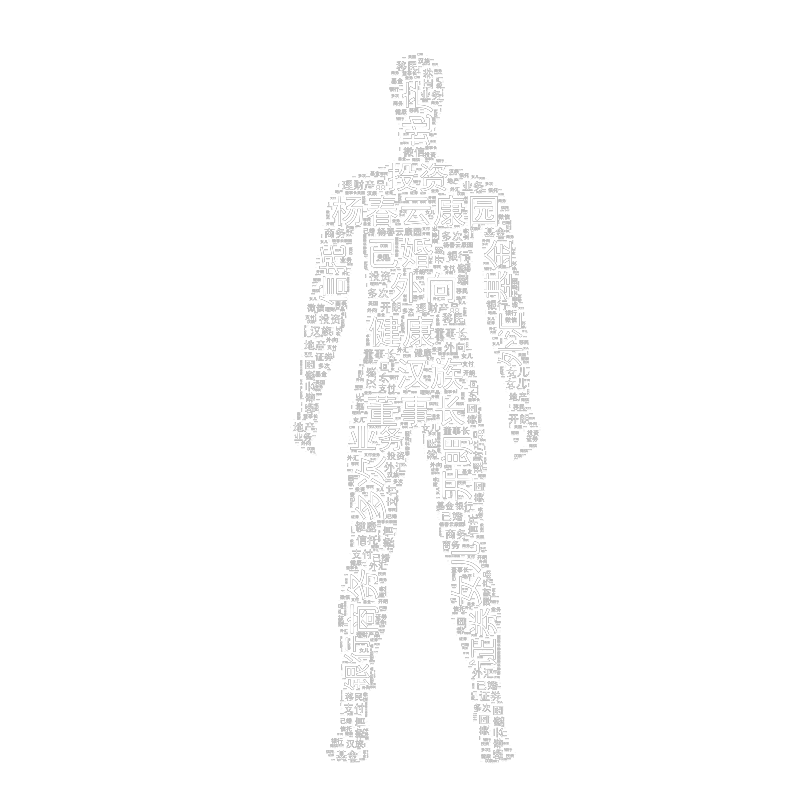
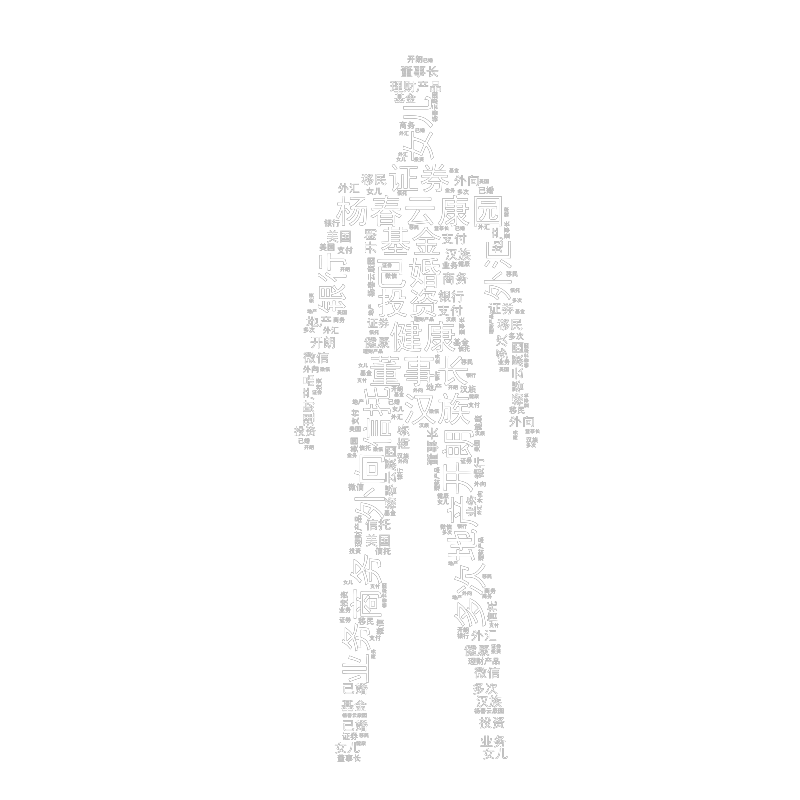
用户词云图

Changed region(s): [[0.3438, 0.0625, 0.6875, 0.9688]]

diff --git a/ceshi.py b/ceshi.py
@@ -6,18 +6,18 @@ import matplotlib.pyplot as plt
 import jieba
 #1 直接复制文本信息
 #2 打开txt文本
-with open (r'C:\Users\Administrator\Desktop\会员画像.txt', 'r') as fp:
+with open (r'C:\Users\Administrator\Desktop\alice.txt', 'r') as fp:
    text=fp.read()
 print(text)
 cut_text = jieba.cut(text,cut_all=False)
 result = " ".join(cut_text)
 #轮廓图片获取
-mask = np.array(Image.open(r'./static/erci.png'))
+mask = np.array(Image.open(r'./static/model.jpg'))
 # import ipdb;ipdb.set_trace()
 # #333943
-word_cloud=WordCloud(font_path='simhei.ttf', background_color=None, max_words=2000,repeat=True, mask=mask,min_font_size=1, mode='RGBA')
+word_cloud=WordCloud(font_path='simhei.ttf', background_color=None, max_words=200, repeat=True, mask=mask, min_font_size=1, mode='RGBA')
 word_cloud.generate(result)
-backgroud_Image = plt.imread(r'./static/未标题-1.jpg')
+backgroud_Image = plt.imread(r'./static/painting.jpg')
 mg_colors = ImageColorGenerator(backgroud_Image)
 word_cloud.recolor(color_func=mg_colors)
 word_cloud.to_file(r'./static/mask_wordcloud1.png')

diff --git a/maker_portrayal.py b/maker_portrayal.py
@@ -12,10 +12,11 @@ class maker_pl:
         result = " ".join(cut_text)
 
         # 轮廓图片获取
-        mask = np.array(Image.open(r'./static/bottom_model.png'))
+        mask = np.array(Image.open(r'./static/model.jpg'))
 
         # #333943
-        word_cloud = WordCloud(font_path='simhei.ttf', background_color=None, max_words=2000, repeat=True, mask=mask,min_font_size=1, mode='RGBA')
+        word_cloud = WordCloud(font_path='simhei.ttf', background_color=None, max_words=200, repeat=True, mask=mask,
+                               min_font_size=1, mode='RGBA' )
         # import ipdb;ipdb.set_trace()
         word_cloud.generate(result)
 
@@ -23,6 +24,5 @@ class maker_pl:
         mg_colors = ImageColorGenerator(backgroud_Image)
         word_cloud.recolor(color_func=mg_colors)
         word_cloud.to_file(r'./static/user_img/user_id{0}.png'.format(user_id))
-
 
 
